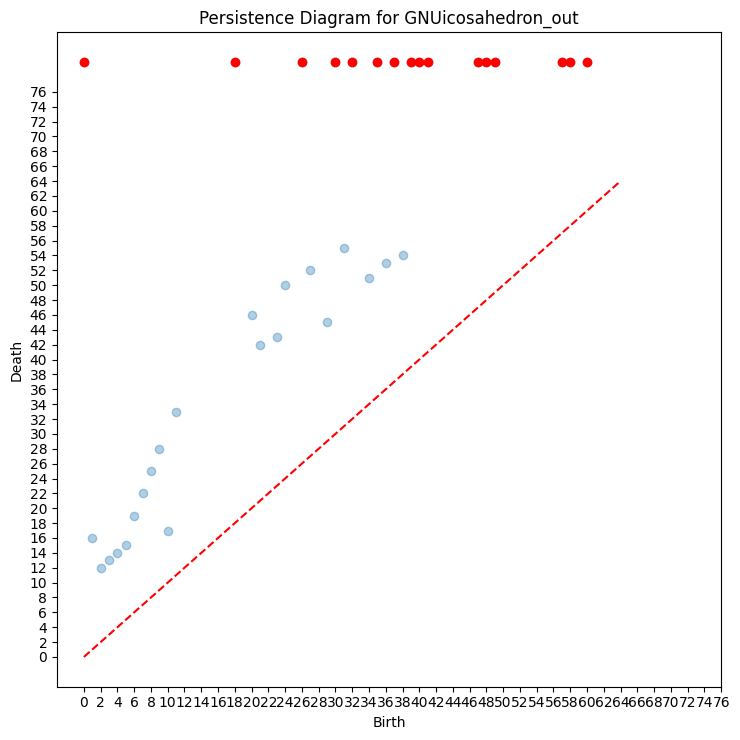
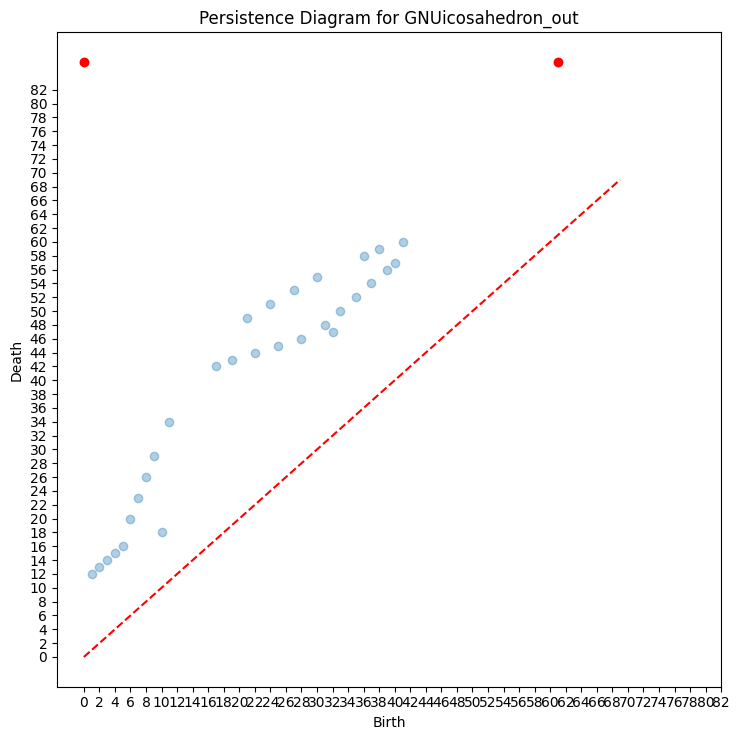
Fixed input for icosahedron

diff --git a/main.py b/main.py
@@ -2,7 +2,7 @@ from MyUtils.Persistence import Persistence
 import matplotlib.pyplot as plt
 from math import ceil
 
-FILE_PATH = "./tests/GNUsphere5_out.txt"
+FILE_PATH = "./tests/GNUicosahedron_out.txt"
 
 if __name__ == "__main__":
     my_test = Persistence(FILE_PATH=FILE_PATH)

diff --git a/my_parser.py b/my_parser.py
@@ -1,4 +1,4 @@
-FILE_PATH = "./tests/GNUsphere5.txt"
+FILE_PATH = "./tests/GNUicosahedron.txt"
 v = 0
 e = 0
 f = 0
